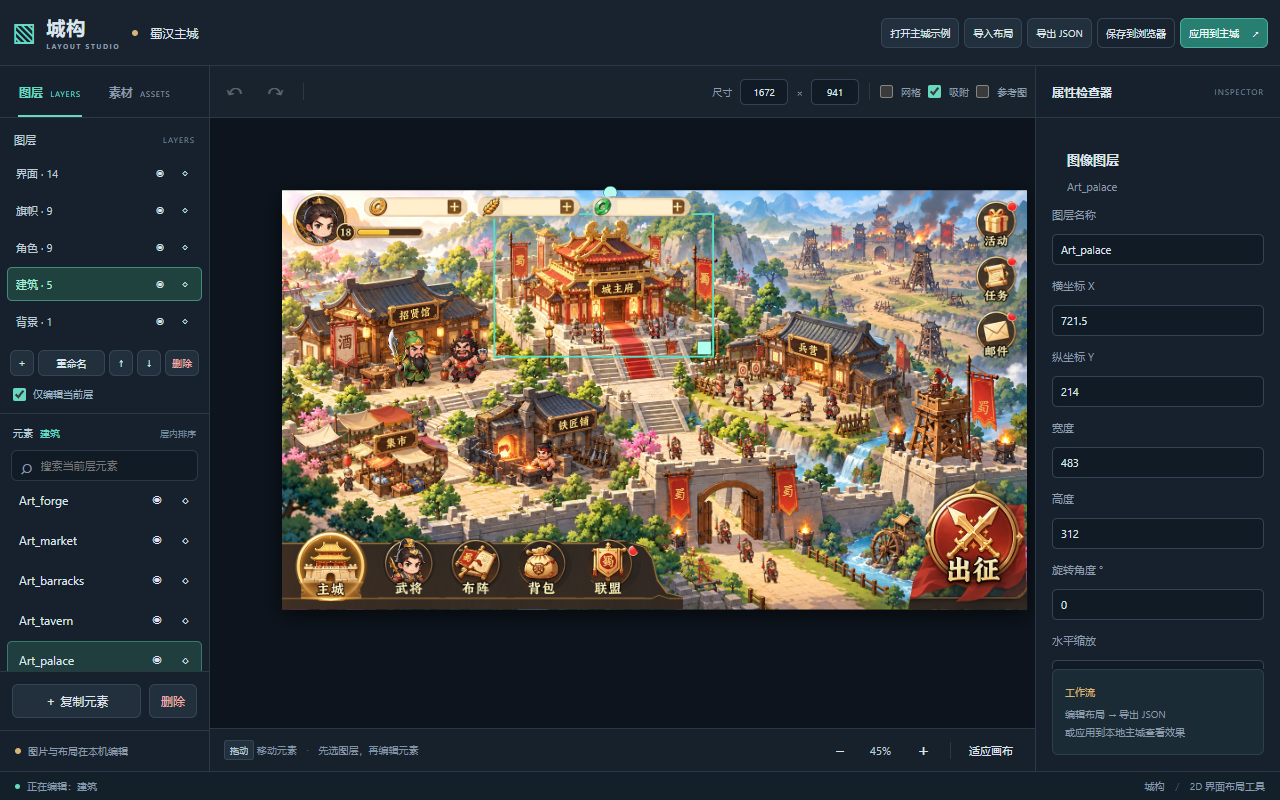
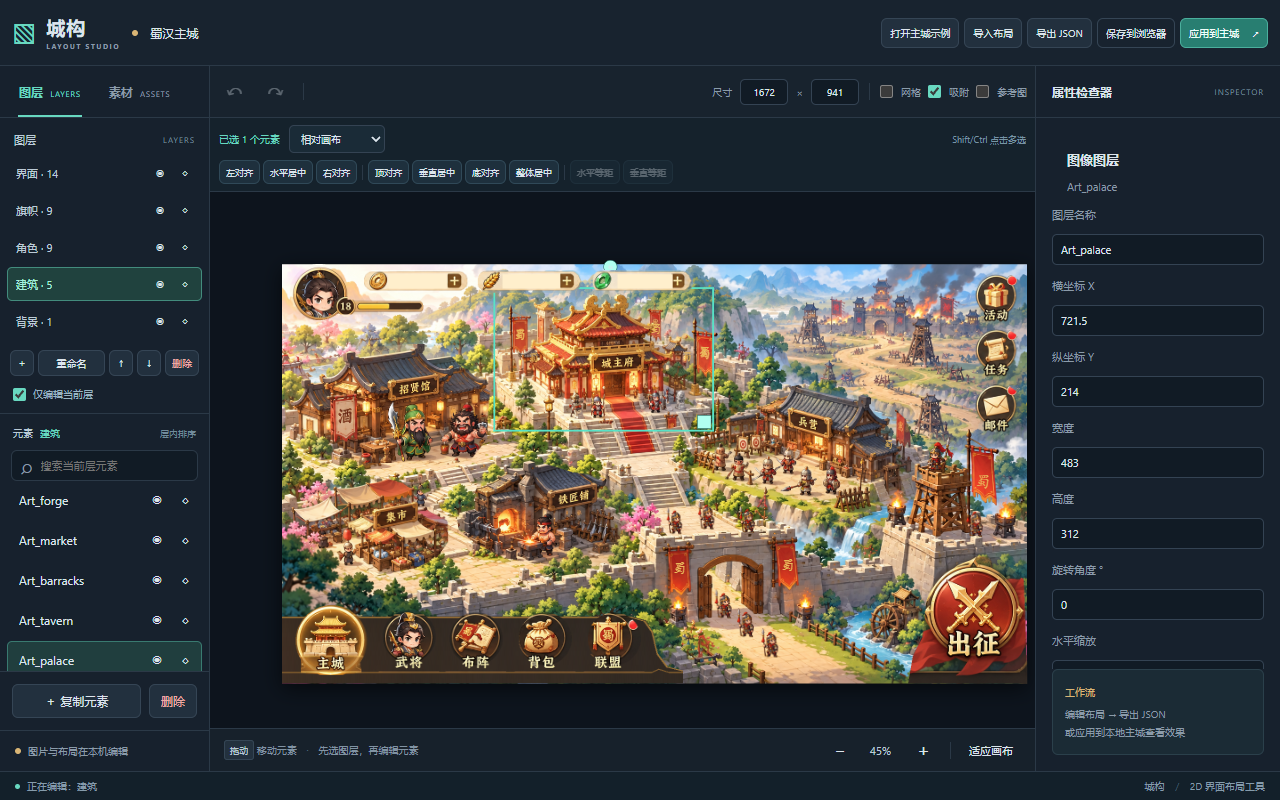
Add selection alignment and equal spacing with affine geometry and undo

diff --git a/dist/style.css b/dist/style.css
@@ -1,3 +1,5 @@
 :root{color-scheme:dark;--bg:#101720;--panel:#17212d;--panel2:#1c2835;--line:#2b3947;--muted:#8b9ba9;--text:#dce5ec;--teal:#68d8c0;--gold:#d9b575}*{box-sizing:border-box}body{margin:0;font-family:Inter,"Segoe UI","Microsoft YaHei",sans-serif;font-size:12px;color:var(--text);background:var(--bg)}button,input,select{font:inherit}button{cursor:pointer;color:var(--text);background:#22303e;border:1px solid #354555;border-radius:6px;padding:8px 11px;white-space:nowrap;transition:background .15s,border-color .15s}button:hover{background:#304254;border-color:#5b7287}button:focus-visible,input:focus-visible,select:focus-visible{outline:2px solid var(--teal);outline-offset:2px}button:disabled{opacity:.35;cursor:default}input,select{min-width:0;color:var(--text);background:#111b25;border:1px solid #344353;border-radius:5px;padding:7px 8px}input[type=checkbox]{accent-color:var(--teal);width:13px;height:13px;margin:0}input[type=number]{appearance:textfield}input::-webkit-inner-spin-button{display:none}[hidden]{display:none!important}.editor-shell{height:100vh;min-height:560px;display:flex;flex-direction:column;overflow:hidden}.topbar{height:66px;flex-shrink:0;display:flex;align-items:center;gap:22px;padding:0 18px;border-bottom:1px solid var(--line);background:#18232f}.brand{display:flex;align-items:center;gap:9px;font-size:19px;font-weight:700;white-space:nowrap;letter-spacing:1px}.brand-mark{color:var(--teal);font-size:29px;font-weight:400}.brand-en{display:block;font-size:8px;letter-spacing:1.5px;color:var(--muted);margin-top:1px}.project-control{display:flex;align-items:center;gap:8px;min-width:160px;flex:1}.project-control input{width:160px;background:transparent;border-color:transparent;padding:6px 3px}.project-control input:hover{border-color:var(--line)}.project-dot,.note-dot{width:6px;height:6px;border-radius:50%;background:var(--gold);flex-shrink:0}.local-tag{font-size:10px;color:var(--muted);border:1px solid var(--line);padding:3px 5px;border-radius:4px;white-space:nowrap}.toolbar-actions{display:flex;gap:7px}.toolbar-actions button{font-size:11px}.button-primary{background:#287e71;border-color:#4baf9d;color:#effffb}.button-primary:hover{background:#329987;border-color:var(--teal)}.button-primary span{margin-left:10px}.button-muted{background:transparent}.workbench{display:grid;grid-template-columns:235px minmax(400px,1fr) 270px;flex:1;min-height:0}.panel{background:var(--panel);display:flex;flex-direction:column;min-height:0}.left-panel{border-right:1px solid var(--line)}.right-panel{border-left:1px solid var(--line)}.panel-tabs{display:flex;height:52px;border-bottom:1px solid var(--line);flex-shrink:0;padding:0 12px;gap:14px}.tab{border:0;background:none;border-radius:0;color:var(--muted);padding:0 7px;position:relative;font-weight:600}.tab span{font-size:8px;letter-spacing:.7px;margin-left:4px;font-weight:400}.tab.active{color:var(--teal)}.tab.active:after{content:"";position:absolute;height:2px;bottom:0;left:6px;right:6px;background:var(--teal)}.tab:hover{background:none;color:var(--text)}.sidebar-section{display:flex;flex-direction:column;flex:1;min-height:0}.search-wrap{margin:14px 12px 12px;display:flex;align-items:center;background:#111b25;border:1px solid var(--line);border-radius:6px;padding-left:9px;color:var(--muted)}.search-wrap input{border:0;background:none;width:100%;font-size:11px}.search-wrap>span{font-size:20px}.list-heading{display:flex;justify-content:space-between;color:var(--muted);padding:0 15px 13px;font-size:10px}.list-heading span:last-child{color:#647888}.node-list{overflow:auto;flex:1;padding:0 7px 12px}.node-row{display:flex;align-items:center;gap:8px;padding:10px 9px;margin-bottom:3px;border:1px solid transparent;border-radius:5px;color:#c0ced8;cursor:pointer;min-height:37px}.node-row:hover{background:#223242}.node-row.selected,.node-row.active{background:#203e3e;border-color:#397a70;color:#a3eddd}.node-name{flex:1;overflow:hidden;text-overflow:ellipsis;white-space:nowrap}.node-type{color:#77909f;font-size:10px}.node-row button{padding:3px 5px;background:transparent;border-color:transparent}.panel-footer{padding:12px;border-top:1px solid var(--line);display:flex;gap:8px}.panel-footer button:first-child{flex:1}.danger-text{color:#edaaa5}.sidebar-note{border-top:1px solid var(--line);padding:13px 15px;display:flex;align-items:center;gap:7px;font-size:10px;color:var(--muted)}.section-intro{padding:17px 15px 0;font-size:13px;font-weight:600}.section-intro span{float:right;color:var(--muted);font-weight:400;font-size:10px}.asset-hint{font-size:11px;line-height:1.7;color:var(--muted);margin:10px 15px}.upload-button{margin:0 14px 14px;border-style:dashed;background:#1a3334;color:#a4dfd2;border-color:#3e7169}.asset-list{display:grid;grid-template-columns:1fr 1fr;gap:8px;padding:0 12px 15px;overflow:auto;align-content:start}.asset-card{border:1px solid var(--line);border-radius:6px;padding:7px;background:#111a23;overflow:hidden;cursor:pointer}.asset-card:hover{border-color:var(--teal)}.asset-card img{width:100%;height:65px;object-fit:contain;background:repeating-conic-gradient(#25313c 0% 25%,#1c2631 0% 50%) 50%/12px 12px}.asset-card span,.asset-card small{display:block;margin-top:5px;overflow:hidden;text-overflow:ellipsis;white-space:nowrap;font-size:10px}.canvas-panel{display:flex;flex-direction:column;min-height:0;min-width:0}.canvas-toolbar{height:52px;flex-shrink:0;display:flex;align-items:center;justify-content:space-between;padding:0 12px;border-bottom:1px solid var(--line);gap:8px;background:#18232e}.history-controls,.canvas-settings,.canvas-settings label{display:flex;align-items:center;gap:8px}.history-controls button{font-size:21px;padding:0 7px;height:28px;border-color:transparent;background:transparent;line-height:1}.canvas-title{font-size:11px;color:#b8c8d4;white-space:nowrap}.toolbar-divider{display:inline-block;height:17px;width:1px;background:var(--line);margin:0 3px;flex-shrink:0}.canvas-settings{font-size:10px;color:var(--muted);gap:9px}.canvas-settings input[type=number]{width:48px;font-size:10px;padding:5px 3px;text-align:center}.check-control{white-space:nowrap;cursor:pointer}.stage-wrap{flex:1;min-height:0;position:relative;overflow:auto;background-color:#0d141d;background-image:radial-gradient(#2b3946 .7px,transparent .7px);background-size:18px 18px;padding:40px;display:block}.stage{position:relative;transform-origin:top left;background:#263746;box-shadow:0 12px 45px #0009;isolation:isolate;overflow:hidden}.stage img{-webkit-user-drag:none;user-select:none}.stage .selected{outline:2px solid var(--teal);outline-offset:0}.selection-box{position:absolute;border:2px solid var(--teal);pointer-events:none;z-index:10000}.resize-handle,.handle{position:absolute;width:8px;height:8px;border:1px solid #0b3730;background:#a0ffe9;pointer-events:auto}.canvas-bottom{height:43px;flex-shrink:0;display:flex;align-items:center;justify-content:space-between;gap:10px;padding:0 14px;border-top:1px solid var(--line);background:#17212b}.canvas-tip{font-size:10px;color:#8193a3}.canvas-tip span{padding:0 7px;color:#4d6476}kbd{font-family:inherit;background:#23313e;padding:3px 5px;border:1px solid #354655;border-radius:3px;font-size:9px;color:#b8c8d4}.zoom-controls{display:flex;align-items:center;gap:7px}.zoom-controls button{padding:4px 7px;background:none;border-color:transparent;font-size:11px}.zoom-controls button:first-child,.zoom-controls button:nth-child(3){font-size:17px}.zoom-controls>span:not(.toolbar-divider){min-width:39px;text-align:center;font-size:11px;color:#bdcbd5}.inspector-heading{height:52px;display:flex;align-items:center;justify-content:space-between;padding:0 16px;border-bottom:1px solid var(--line);font-weight:600}.small-label{font-size:8px;letter-spacing:1px;color:#748a9b;font-weight:400}.inspector-fields{flex:1;overflow:auto;padding:16px}.empty-state{text-align:center;color:var(--muted);padding:65px 0}.empty-icon{font-size:36px;color:#4c6879;display:block;margin-bottom:16px}.empty-state strong{font-size:12px;color:#b9c9d4;font-weight:500}.empty-state p{font-size:11px;line-height:1.9}.inspector-fields h3,.inspector-fields h4{font-size:11px;font-weight:600;color:var(--gold);margin:20px 0 12px;padding-bottom:10px;border-bottom:1px solid var(--line)}.inspector-fields h3:first-child{margin-top:0}.field{display:flex;flex-direction:column;gap:7px;margin-bottom:13px}.field>label{font-size:10px;color:var(--muted)}.field-row{display:flex;gap:10px}.field-row>.field{min-width:0;flex:1}.inspector-fields label{color:var(--muted);font-size:11px}.inspector-fields input:not([type=checkbox]),.inspector-fields select{width:100%;margin-top:5px}.inspector-fields input[type=range]{padding:0;accent-color:var(--teal)}.inspector-fields input[type=color]{padding:3px;height:34px}.inspector-note{margin:0 16px 16px;padding:13px 12px;background:#1b2b35;border:1px solid #2b404b;border-radius:6px}.inspector-note>span{font-size:10px;color:var(--gold)}.inspector-note p{font-size:10px;line-height:1.8;color:var(--muted);margin:6px 0 0}.statusbar{height:29px;flex-shrink:0;display:flex;align-items:center;justify-content:space-between;padding:0 15px;background:#13202a;border-top:1px solid var(--line);font-size:10px;color:#859bab}.statusbar>div{display:flex;align-items:center;gap:7px}.status-dot{width:5px;height:5px;background:var(--teal);border-radius:50%}.status-separator{color:#415f6d;margin:0 8px}::-webkit-scrollbar{width:7px;height:7px}::-webkit-scrollbar-thumb{background:#354858;border-radius:5px}::-webkit-scrollbar-track{background:transparent}@media(max-width:1350px){.topbar{gap:12px;padding:0 12px}.toolbar-actions{gap:5px}.toolbar-actions button{padding:7px 8px;font-size:10px}.project-control input{width:135px}.local-tag{display:none}.workbench{grid-template-columns:210px minmax(350px,1fr) 245px}.canvas-title{display:none}.canvas-settings{gap:7px}.canvas-toolbar{padding:0 8px}.canvas-tip{max-width:52%;line-height:1.5}.brand-en{font-size:7px}}@media(max-width:1000px){.workbench{grid-template-columns:180px minmax(300px,1fr) 220px}.topbar{height:90px;flex-wrap:wrap;align-content:center;gap:8px 14px}.toolbar-actions{width:100%;justify-content:flex-end}.project-control{justify-content:flex-end}.brand-en{display:inline;margin-left:8px}.canvas-settings{gap:5px}.canvas-settings label{gap:4px}.canvas-settings input[type=number]{width:39px}.canvas-tip{display:none}.canvas-bottom{justify-content:flex-end}.inspector-fields{padding:12px}.tab span{display:none}}
 /* Explicit layers above the active layer's element list. */
 .layer-heading{display:flex;align-items:center;justify-content:space-between;padding:14px 14px 9px;font-size:11px;color:#bdcdd8;flex-shrink:0}.layer-list{max-height:220px;min-height:42px;overflow:auto;padding:0 7px;flex-shrink:1}.layer-row{display:flex;align-items:center;gap:5px;min-height:34px;padding:4px 6px;border:1px solid transparent;border-radius:5px;margin-bottom:3px;color:#bccbd7;cursor:pointer}.layer-row:hover{background:#223442}.layer-row.active,.layer-row.selected{background:#20423e;border-color:#438c7d;color:#a5efdc}.layer-row .layer-name{flex:1;min-width:0;text-align:left;white-space:nowrap;overflow:hidden;text-overflow:ellipsis;font-size:11px;padding:4px 2px;background:transparent;border:0;color:inherit}.layer-eye,.layer-lock{border:0!important;background:transparent!important;padding:3px 4px!important;font-size:10px!important;min-width:20px}.layer-actions{display:flex;gap:4px;padding:9px 10px;flex-shrink:0}.layer-actions button{padding:5px 6px;font-size:10px;min-width:24px}.layer-actions #rename-layer{flex:1}.layer-edit-option{display:flex;align-items:center;gap:7px;padding:2px 13px 12px;color:#9bb5c3;font-size:10px;border-bottom:1px solid var(--line);flex-shrink:0}.element-heading{display:flex;justify-content:space-between;align-items:center;gap:5px;padding:12px 13px 0;color:#bbcbd5;font-size:10px;flex-shrink:0}.element-heading>span:first-child{min-width:0;display:flex;align-items:center;gap:7px}.element-heading>span:last-child{color:#718b9b;white-space:nowrap;font-size:9px}#active-layer-name{font-weight:400;color:var(--teal);max-width:115px;overflow:hidden;text-overflow:ellipsis;white-space:nowrap}#hierarchy-panel .search-wrap{margin:10px 11px;flex-shrink:0}#hierarchy-panel .node-list{min-height:60px}#hierarchy-panel .node-row{min-height:32px;padding:5px 6px}.layer-list:empty:after{content:'尚无图层';display:block;padding:12px 8px;color:var(--muted);font-size:11px}.node-list:empty:after{content:'当前层暂无元素';display:block;padding:14px 8px;color:var(--muted);font-size:11px}
+/* Alignment actions remain visible at desktop widths without covering the canvas. */
+.alignment-toolbar{display:flex;flex-wrap:wrap;align-items:center;gap:7px 10px;padding:8px 12px;min-height:45px;flex-shrink:0;border-bottom:1px solid var(--line);background:#15222c}.alignment-target{display:flex;align-items:center;gap:9px;flex-shrink:0}.alignment-target select{padding:5px 7px;font-size:10px;max-width:132px;background:#1a2b37}#selection-count{font-size:10px;color:var(--teal);min-width:42px;white-space:nowrap}.alignment-buttons{display:flex;flex-wrap:wrap;align-items:center;gap:4px}.alignment-buttons button{padding:5px 7px;font-size:10px;background:#1e303d;border-color:#304958}.alignment-buttons button:hover{background:#2c4b53;border-color:#5c9f96}.alignment-buttons .toolbar-divider{height:15px;margin:0 2px}.multiselect-hint{margin-left:auto;font-size:9px;white-space:nowrap;color:#7894a4}@media(max-width:1350px){.alignment-toolbar{gap:7px;padding:7px 9px}.alignment-buttons{gap:3px;order:3;flex-basis:100%}.alignment-buttons button{padding:5px 6px;font-size:9px}.multiselect-hint{margin-left:auto}}@media(max-width:1000px){.alignment-buttons button{padding:5px;font-size:9px}.alignment-toolbar{padding:6px 8px}.alignment-buttons .toolbar-divider{display:none}}

diff --git a/dist/index.html b/dist/index.html
@@ -26,6 +26,7 @@
 </aside>
 <main class="canvas-panel">
   <div class="canvas-toolbar"><div class="history-controls"><button id="undo" title="撤销" aria-label="撤销">↶</button><button id="redo" title="重做" aria-label="重做">↷</button><span class="toolbar-divider"></span><span class="canvas-title">界面画布</span></div><div class="canvas-settings"><label>尺寸 <input id="canvas-width" type="number" min="1" value="1672" aria-label="画布宽度"><span>×</span><input id="canvas-height" type="number" min="1" value="941" aria-label="画布高度"></label><span class="toolbar-divider"></span><label class="check-control"><input id="grid-toggle" type="checkbox">网格</label><label class="check-control"><input id="snap-toggle" type="checkbox" checked>吸附</label><label class="check-control"><input id="reference-toggle" type="checkbox">参考图</label></div></div>
+  <div class="alignment-toolbar" aria-label="对齐与分布工具栏"><div class="alignment-target"><span id="selection-count">未选中</span><select id="align-target" aria-label="对齐参照"><option value="canvas">相对画布</option><option value="selection">相对所选范围</option></select></div><div class="alignment-buttons"><button id="align-left" title="将所选元素左边缘对齐到参照范围左侧">左对齐</button><button id="align-hcenter" title="将所选元素水平中心对齐">水平居中</button><button id="align-right" title="将所选元素右边缘对齐到参照范围右侧">右对齐</button><span class="toolbar-divider"></span><button id="align-top" title="将所选元素上边缘对齐到参照范围顶部">顶对齐</button><button id="align-vcenter" title="将所选元素垂直中心对齐">垂直居中</button><button id="align-bottom" title="将所选元素下边缘对齐到参照范围底部">底对齐</button><button id="align-center" title="将所选元素同时水平与垂直居中">整体居中</button><span class="toolbar-divider"></span><button id="distribute-h" title="在所选范围中水平等距分布元素">水平等距</button><button id="distribute-v" title="在所选范围中垂直等距分布元素">垂直等距</button></div><span class="multiselect-hint">Shift/Ctrl 点击多选</span></div>
   <div id="stage-wrap" class="stage-wrap"><div id="stage" class="stage" aria-label="可编辑游戏界面画布"></div></div>
   <div class="canvas-bottom"><span class="canvas-tip"><kbd>拖动</kbd> 移动元素 <span>·</span> 先选图层，再编辑元素</span><div class="zoom-controls"><button id="zoom-out" aria-label="缩小">−</button><span id="zoom-label">100%</span><button id="zoom-in" aria-label="放大">＋</button><span class="toolbar-divider"></span><button id="fit-view">适应画布</button></div></div>
 </main>

diff --git a/docs/LAYERS.md b/docs/LAYERS.md
@@ -26,3 +26,11 @@
 ## 旧文档
 
 没有 layers 的旧文档自动补层。旧主城合并底栏 Art_hud-bottom 需连接本地主城服务拆成六个新元素；迁移后重新导出自包含 JSON，便可独立使用。通用编辑器可创建任意层，但应用到主城仍受现有 Sprite ID 和适配范围约束，需重编译后生效。
+
+## 多选、对齐与分布
+
+在画布或元素列表使用 Shift/Ctrl 点击添加或移除所选元素；仍遵循当前层隔离和锁定限制。工具栏的“已选”计数用于确认批量操作范围。
+
+对齐参照可选“相对画布”或“相对所选范围”。左/右/顶/底对齐作用于边缘；水平/垂直居中作用于相应中心。“整体居中”同时使用水平与垂直方向。使用前确认参照范围，避免把原本有间距的按钮叠到同一中心。
+
+水平/垂直等距用于多个元素的排布；建议至少选择三个元素，并先检查端点和尺寸。旋转、缩放与父子局部坐标的具体计算以当前数据核心实现为准。对齐后可撤销，并应在主城适配构建中核对视觉和点击热区。

diff --git a/README.md b/README.md
@@ -57,3 +57,6 @@ npm test
 当前完整默认主城为 5 层、38 个元素：背景 1、建筑 5、角色 9（含前景护栏）、旗帜 9、界面 14。底部 5 个导航按钮已独立，背景板另算 1 个界面元素；旗帜是独立资源而非底板上的移动假象。背景层仍有烘焙远景和城墙，不是全部环境拆层。
 
 旧版无 layers 的文档会补默认层（可识别主城时按语义归类）。旧主城 Art_hud-bottom 合并底栏需要连接本地主城服务迁移为 5 个导航按钮加 1 个底栏背景；迁移完成后再导出，供独立部署使用。新图层功能的浏览器与 Cocos 最终回归证据以最新验收记录为准。
+
+### 对齐
+选中元素后使用画布上方对齐工具。Shift/Ctrl 点击元素列表或画布可多选；切换“相对画布 / 相对所选范围”。三个以上可等距分布；锁定/隐藏项不参与，操作可撤销。

diff --git a/docs/ACCEPTANCE.md b/docs/ACCEPTANCE.md
@@ -29,3 +29,6 @@
 ## 图层与导航修订最终验收
 
 38元素、5图层全部通过浏览器回归；建筑层5、角色层9、旗帜层9、背景层1、界面层14。导航5项与独立背景共6。图层显隐锁定排序、新建改名删除、元素归层、旧布局迁移、旋转/缩放/拖动、撤销及保存导出通过。实测Cocos隐藏UI层时14图像、12点击区、3资源数值隐藏，角色层不受影响；随后恢复完整布局重新编译。证据：editor-layers.png、cocos-layer-visibility.json、cocos-nav-split.json。
+
+## 对齐工具验收
+七种对齐（左/水平居中/右/顶/垂直居中/底/正中）和水平/垂直等距通过几何测试；浏览器实测37度旋转后正中、Shift多选3元素左对齐、一步撤销与重做、等距、锁定跳过通过。原有浏览器回归通过，无控制台错误。截图editor-alignment.png。
